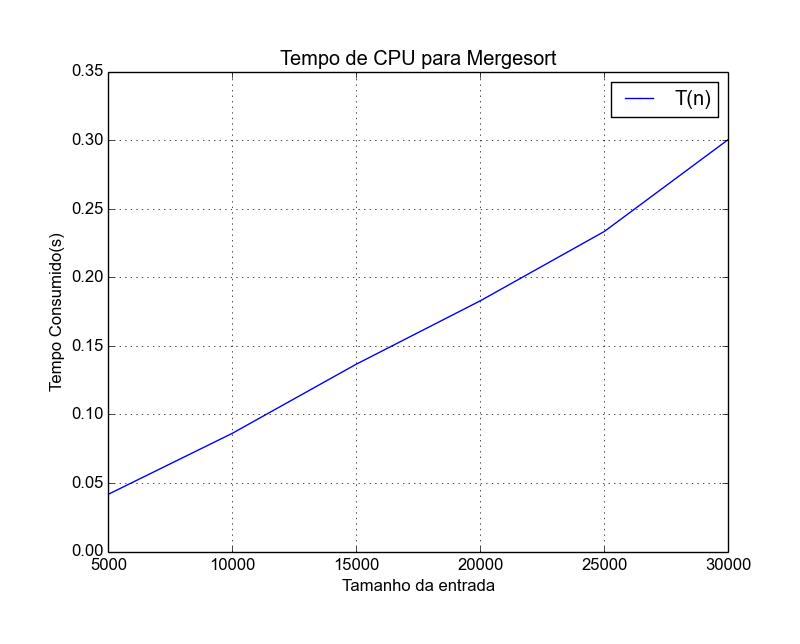
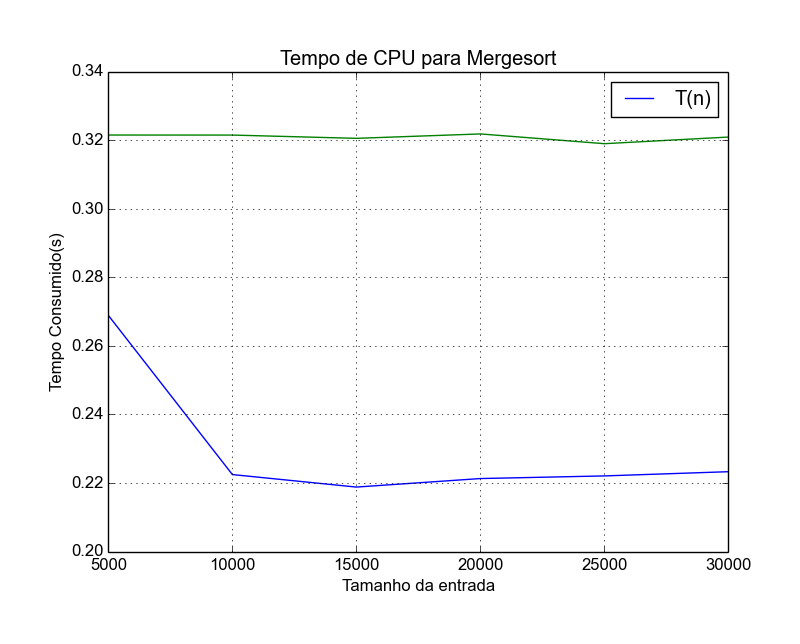
Atualização no módulo main. Refeita função de plot.

diff --git a/src/main.py b/src/main.py
@@ -8,30 +8,36 @@ from selectionsort import *
 from heapsort import *
 from mergesort import *
 
+
+# Funcao para executar as chamadas
+def save_time(i, list):
+    cputime1[i] = bubblesort(list)
+    cputime2[i] = quicksort(list)
+    cputime3[i] = insertionsort(list)
+    cputime4[i] = shellsort(list)
+    cputime5[i] = selectionsort(list)
+    cputime6[i] = heapsort(list)
+    cputime7[i] = mergesort(list)
+    print "tamanho de lista: {0}".format(len(list))
+
 # cria o diretorio para armazenagem dos plots, por padrao o diretorio
 # '../plot_results'
 create_dir(ROOT_DIR)
 
 n = 5000  # Quantos elementos no Array
 num_it = 6  # Numero de iteracoes no teste
-# list = fill_array(n)
 
-# bubblesort(list)
-# quicksort(list)
-# insertionsort(list)
-# shellsort(list)
-# selectionsort(list)
-# heapsort(list)
-# mergesort(list)
-
-cputime = [0.] * num_it  # inicializa o vetor vazio de dimensao num_it
+# Inicializa os vetores para armazenamento do tempo de execucao
+cputime1, cputime2, cputime3, cputime4, cputime5, cputime6, cputime7 = (
+    ([0.] * num_it) for i in range(7))
 dimvet = [0.] * num_it  # inicializa o vetor vazio de dimensao num_it
 
 # Ira realizar num_it iteracoes de um mesmo algoritmo com diferentes dimensoes
 for i in range(num_it):
     list = fill_array(n * (i + 1))
     dimvet[i] = len(list)
-    cputime[i] = mergesort(list)  # Armazena o cputime para aquela execucao
+    save_time(i, list)
 
-# print dimvet, cputime
-plot_graph(dimvet, cputime, 'Mergesort')
+
+plot_graph(dimvet, cputime1, dimvet, cputime2, dimvet, cputime3, dimvet,
+           cputime4, dimvet, cputime5, dimvet, cputime6,  dimvet, cputime7)

diff --git a/src/heapsort.py b/src/heapsort.py
@@ -3,13 +3,13 @@ import time
 
 def heapsort(alist):
     start = time.clock()
-    # convert alist to heap
+    # converte alist para heap
     length = len(alist) - 1
     leastParent = length / 2
     for i in range(leastParent, -1, -1):
         movedown(alist, i, length)
 
-    # flatten heap into sorted array
+    # converte o heap em um array ordenado
     for i in range(length, 0, -1):
         if alist[0] > alist[i]:
             swap(alist, 0, i)
@@ -22,18 +22,18 @@ def heapsort(alist):
 def movedown(alist, first, last):
     largest = 2 * first + 1
     while largest <= last:
-            # right child exists and is larger than left child
+        # filho direito e maior que o filho esquerdo
         if (largest < last) and (alist[largest] < alist[largest + 1]):
             largest += 1
 
-        # right child is larger than parent
+        # filho direito e maior que o pai
         if alist[largest] > alist[first]:
             swap(alist, largest, first)
-            # move down to largest child
+            # move pra baixo o maior filho
             first = largest
             largest = 2 * first + 1
         else:
-            return  # force exit
+            return  # forca saida
 
 
 def swap(A, x, y):

diff --git a/src/general.py b/src/general.py
@@ -28,15 +28,18 @@ def write_file(path, data):
     f.close()
 
 
-def plot_graph(dim, time, sortname):
+def plot_graph(dim, time_bubble, dim2, time_quick, dim3, time_insert, dim4, time_shell,
+               dim5, time_select, dim6, time_heap, dim7, time_merge):
     plt.figure()
-    plt.plot(dim, time, 'b-')
-    plt.legend(['T(n)'], loc='best')
+    plt.plot(dim, time_bubble, dim2, time_quick, dim3, time_insert, dim4, time_shell,
+             dim5, time_select, dim6, time_heap, dim7, time_merge)
+    plt.legend(['BubbleSort', 'QuickSort', 'InsertionSort', 'ShellSort',
+                'SelectionSort', 'HeapSort', 'MergeSort'], loc='best')
     plt.grid(True)
     plt.ylabel('Tempo Consumido(s)')
     plt.xlabel('Tamanho da entrada')
-    plt.title('Tempo de CPU para ' + sortname)
+    plt.title('Tempo de CPU para todos algoritmos')
     plt.subplots_adjust(left=0.125, bottom=0.1, right=0.9, top=0.9)
-    plt.savefig(ROOT_DIR + '/' + sortname + '.png',
+    plt.savefig(ROOT_DIR + '/all_algs.png',
                 bbox_inches='tight', pad_inches=.5)
     plt.show()

diff --git a/src/mergesort.py b/src/mergesort.py
@@ -10,13 +10,13 @@ def mergesort(aList):
 
 
 def _mergesort(aList, first, last):
-    # break problem into smaller structurally identical pieces
+    # quebra o problema em partes menores
     mid = (first + last) / 2
     if first < last:
         _mergesort(aList, first, mid)
         _mergesort(aList, mid + 1, last)
 
-    # merge solved pieces to get solution to original problem
+    # junta as partes ordenadas para chegar a solucao do problema orginal
     a, f, l = 0, first, mid + 1
     tmp = [None] * (last - first + 1)
 

diff --git a/src/bubblesort.py b/src/bubblesort.py
@@ -4,7 +4,7 @@ import time
 def bubblesort(alist):
     length = len(alist) - 1
     sorted = False
-    start = time.clock()
+    start = time.clock() # para calcular o tempo de execucao
     while not sorted:
         sorted = True
         for i in range(length):
